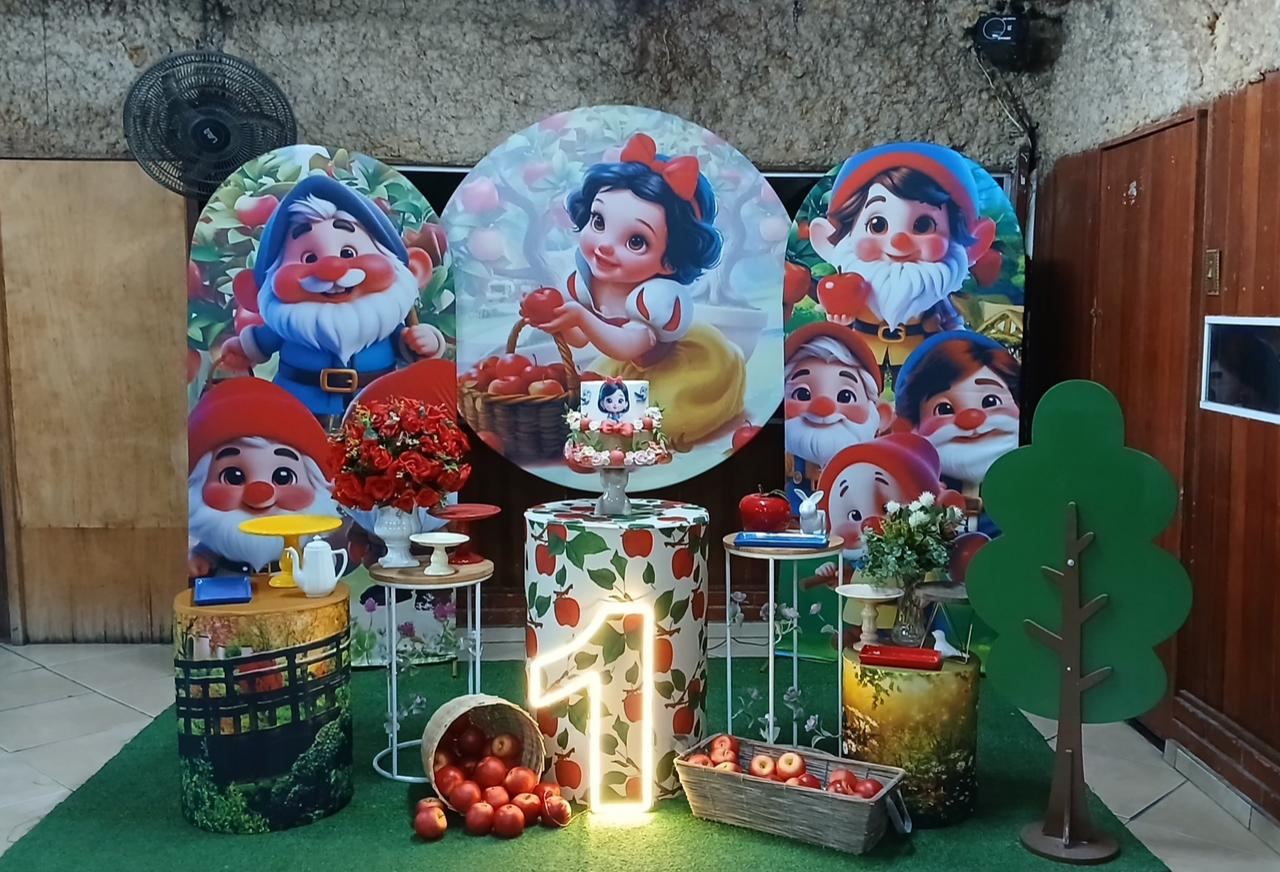
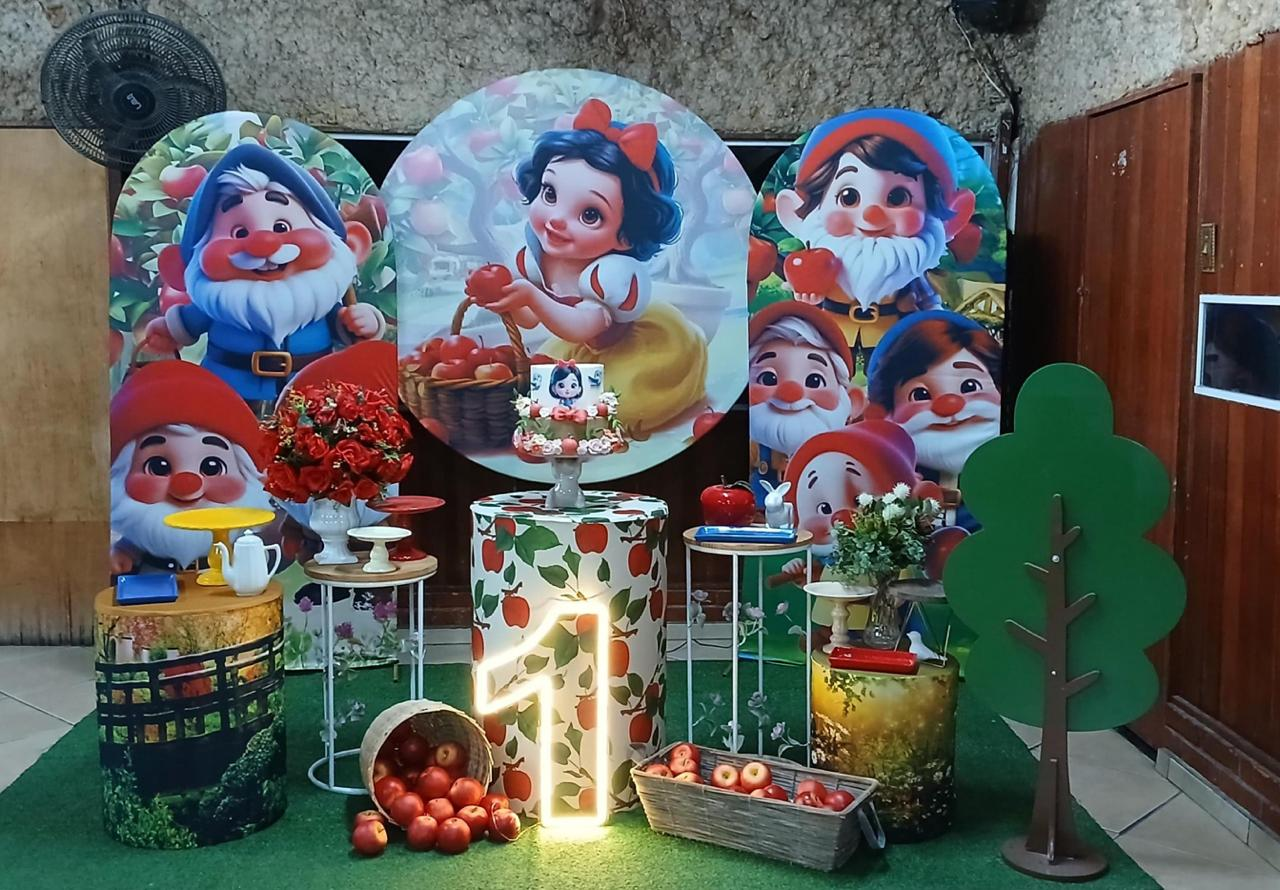
alteração na pasta public

diff --git a/components/sections/portfolio.tsx b/components/sections/portfolio.tsx
@@ -16,7 +16,7 @@ const portfolioImages = [
     position: "object-[45%_80%]",
   },
   {
-    src: "branca-de-neve-2.jpeg",
+    src: "branca-de-neve.jpeg",
     alt: "festa de 1 aninho com branca de neve",
     position: "object-[30%_75%]",
   },
